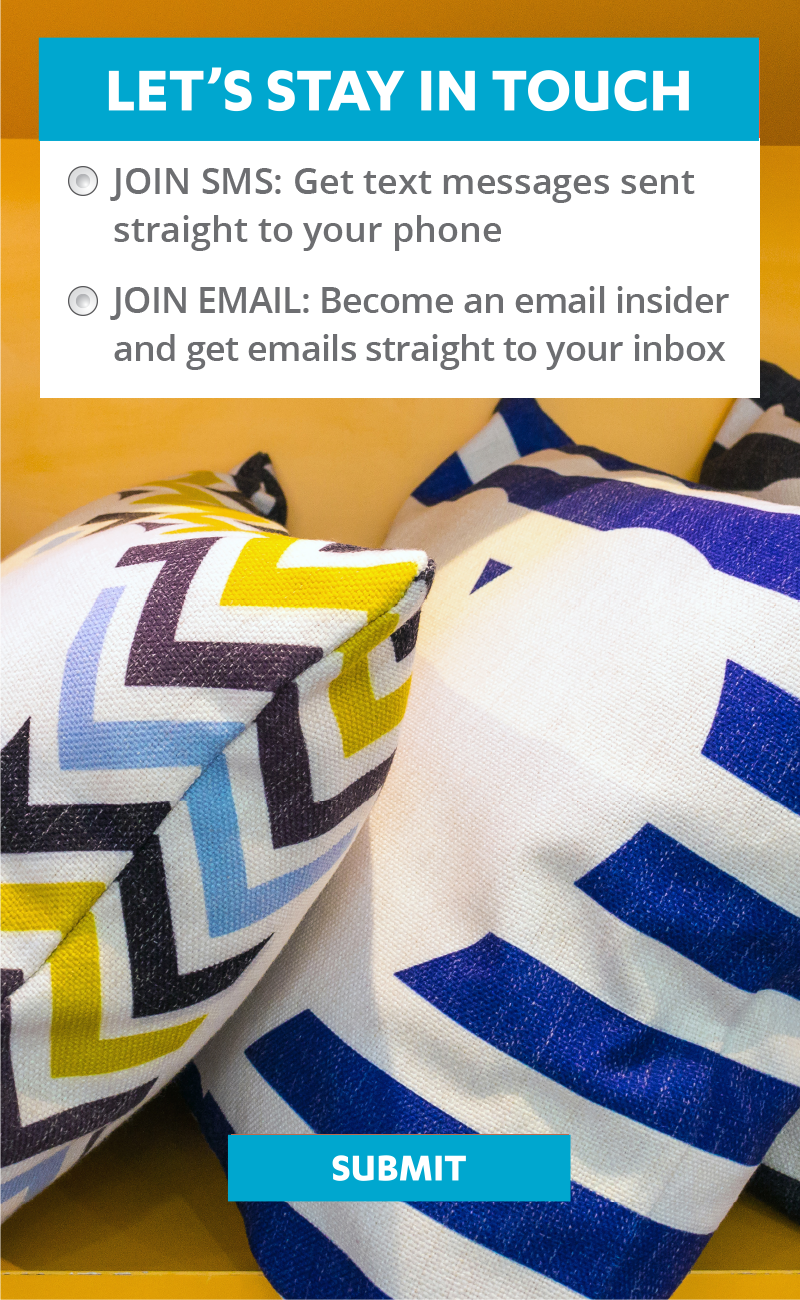
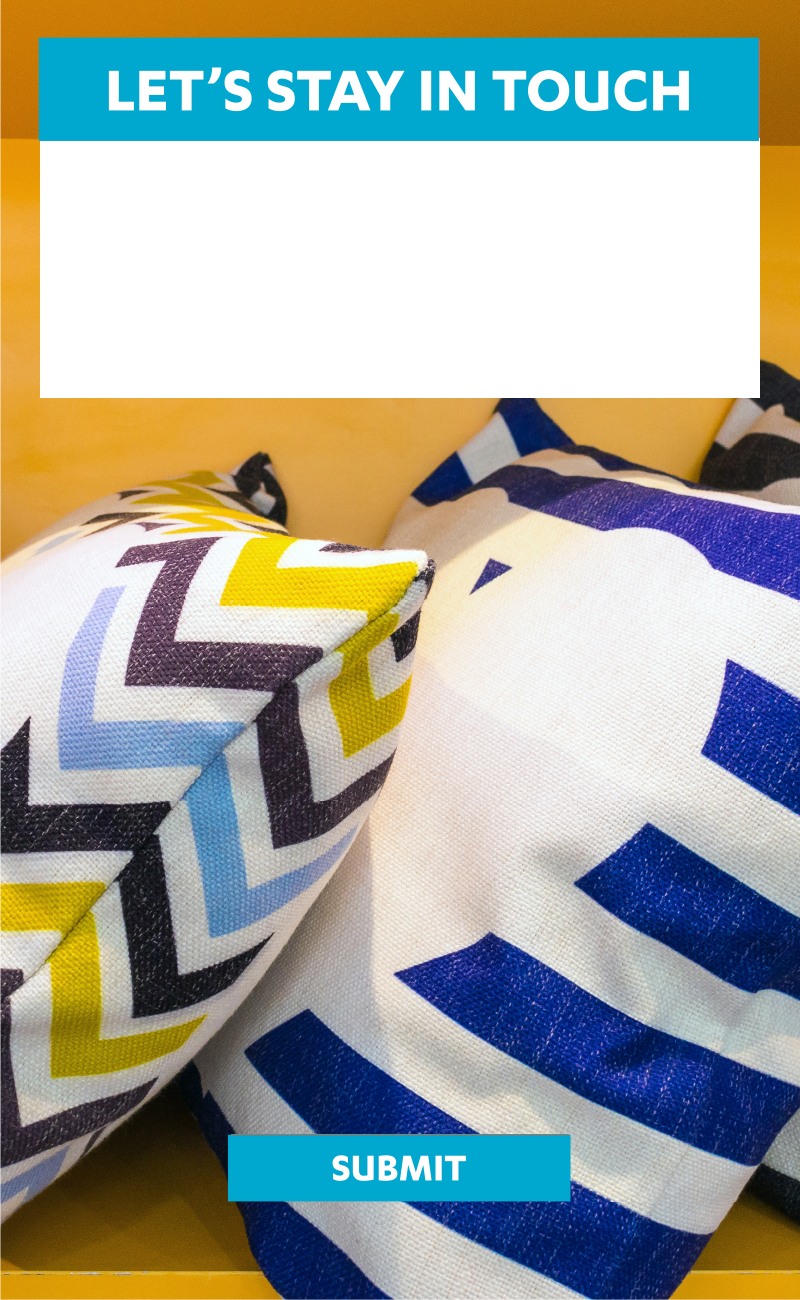
Deck changes

Changed region(s): [[0.0625, 0.2154, 0.9062, 0.2769], [0.0625, 0.1231, 0.875, 0.1846]]

diff --git a/AH_Story.html b/AH_Story.html
@@ -62,6 +62,21 @@
     color: rgba(64,64,64,0.7);
 }
 
+.radio{
+    -webkit-appearance:button;
+    -moz-appearance:button;
+    appearance:button;
+    border:4px solid #ccc;
+    border-top-color:#bbb;
+    border-left-color:#bbb;
+    background:#fff;
+    width:40px;
+    height:40px;
+    border-radius:50%;
+}
+.radio:checked{
+    border:15px solid #808080;
+}
 .navfooter {
   position:absolute;
   height: 2vh;
@@ -240,6 +255,11 @@
         </div>
 
         <div class="card fixedcard"><img draggable="false" class="heroImage" src="img/ah/storybook/AH_Mobile%20Story%208.png">
+            <div style="position:absolute; left:70px; top: 170px; width: 700px" >
+                <input class="radio" type="radio" name="radios"/><label style="font-size: 40px; vertical-align: top; color: #606060;">JOIN SMS: Get text messages sent straight to your phone.</label>
+                <br><br>
+                <input class="radio" type="radio" name="radios"/><label style="font-size: 40px; vertical-align: top; color: #606060;">JOIN EMAIL: Become an email insider and get emails straight to your inbox.</label>
+            </div>
             <svg style="position:absolute; left:251px; top: 1133px; z-index:11;"  class="cardIndexIncrementor">
                 <polygon points="0,0 340,0 340,70 0,70" style="fill: rgba(0,255,0,0);"/>
             </svg>
@@ -251,9 +271,6 @@
         <div class="card fixedcard"><img draggable="false" class="heroImage" src="img/ah/storybook/AH_Mobile%20Story%2010.png">
         </div>
 
-        <div class="card fixedcard"><img draggable="false" class="heroImage" src="img/ah/storybook/AH_Mobile%20Story%2011.png">
-        </div>
-
         <div class="card fixedcard"><img draggable="false" class="heroImage" src="img/ah/storybook/AH_Mobile%20Story%2012.png">
         </div>
 
@@ -261,6 +278,9 @@
             <svg style="position:absolute; left:251px; top: 1083px; z-index:11;"  class="cardIndexIncrementor">
                 <polygon points="0,0 340,0 340,70 0,70" style="fill: rgba(0,255,0,0);"/>
             </svg>
+        </div>
+
+        <div class="card fixedcard"><img draggable="false" class="heroImage" src="img/ah/storybook/AH_Mobile%20Story%2011.png">
         </div>
 
         <div class="card fixedcard"><img draggable="false" class="heroImage" src="img/ah/storybook/AH_Mobile%20Story%2014.png">

diff --git a/KT_Loyalty_Staging.html b/KT_Loyalty_Staging.html
@@ -211,7 +211,13 @@
 
     <div class="card fixedcard"><img draggable="false" class="heroImage" src="img/kt/LoyaltyBook/2 KT_selling_mobile-loyalty-book-2-060518-1.png"></div>
 
-    <div class="card fixedcard"><img draggable="false" class="heroImage" src="img/kt/LoyaltyBook/KT%20Loyalty%20Intelligent%20Incentive.png"></div>
+    <div class="card fixedcard"><img draggable="false" class="heroImage" src="img/kt/LoyaltyBook/KT%20Loyalty%20Intelligent%20Incentive.png">
+        <svg class="dogear" width="100" height="120" onclick="window.location.href= 'KT_Back_Incentive.html'">
+            <polygon points="100,0 100,120 0,120" style="fill:rgb(255,255,255)"/>
+            <polygon points="0,0 100,0 0,120" style="fill:rgba(0,0,0,0.3)"/>
+            <text x="5" y="40" font-family= 'Open Sans' font-size="20" fill="white" font-weight="bold">More</text>
+        </svg>
+    </div>
 
     <div class="card fixedcard"><img draggable="false" class="heroImage" src="img/kt/LoyaltyBook/3 KT_selling_mobile-loyalty-book-3-060518-1.png">
         <img id="barcode" style="position:absolute; left:75px; top: 280px; z-index:11;"/>

diff --git a/AH_Loyalty.html b/AH_Loyalty.html
@@ -217,7 +217,7 @@
             </a>
         </div>
         <div class="card fixedcard"><img draggable="false" class="heroImage" src="img/ah/loyaltybook/AH%20Loyalty%203.png">
-            <svg class="dogear" width="100" height="120" onclick="window.location.href= 'KT_Back_Incentive.html'">
+            <svg class="dogear" width="100" height="120" onclick="window.location.href= 'AH_Back_Incentive.html'">
                 <polygon points="100,0 100,120 0,120" style="fill:rgb(255,255,255)"/>
                 <polygon points="0,0 100,0 0,120" style="fill:rgba(0,0,0,0.3)"/>
                 <text x="5" y="40" font-family= 'Open Sans' font-size="20" fill="white" font-weight="bold">More</text>

diff --git a/AH_Back_Incentive.html b/AH_Back_Incentive.html
@@ -67,7 +67,7 @@ function earsAgog() {
       <div style="margin:8%; font-family: 'Open Sans'">
           <h3>Intelligent Incentive</h3>
           <br>
-          For new loyalty program members, deliver a welcome reward immediately.
+          For example, if a shopper's average spend is $50, the call to action could be to spend $75 and get a 10% discount
           <br><br>
           Alternatively, if the shopper is lapsed or at-risk, we can deliver a 20% discount coupon, valid for today only.
           <br><br>
@@ -76,7 +76,6 @@ function earsAgog() {
           <br><br>
           <br><br>
           <br><br>
-          <br>
     </div>
    </div> 
 
